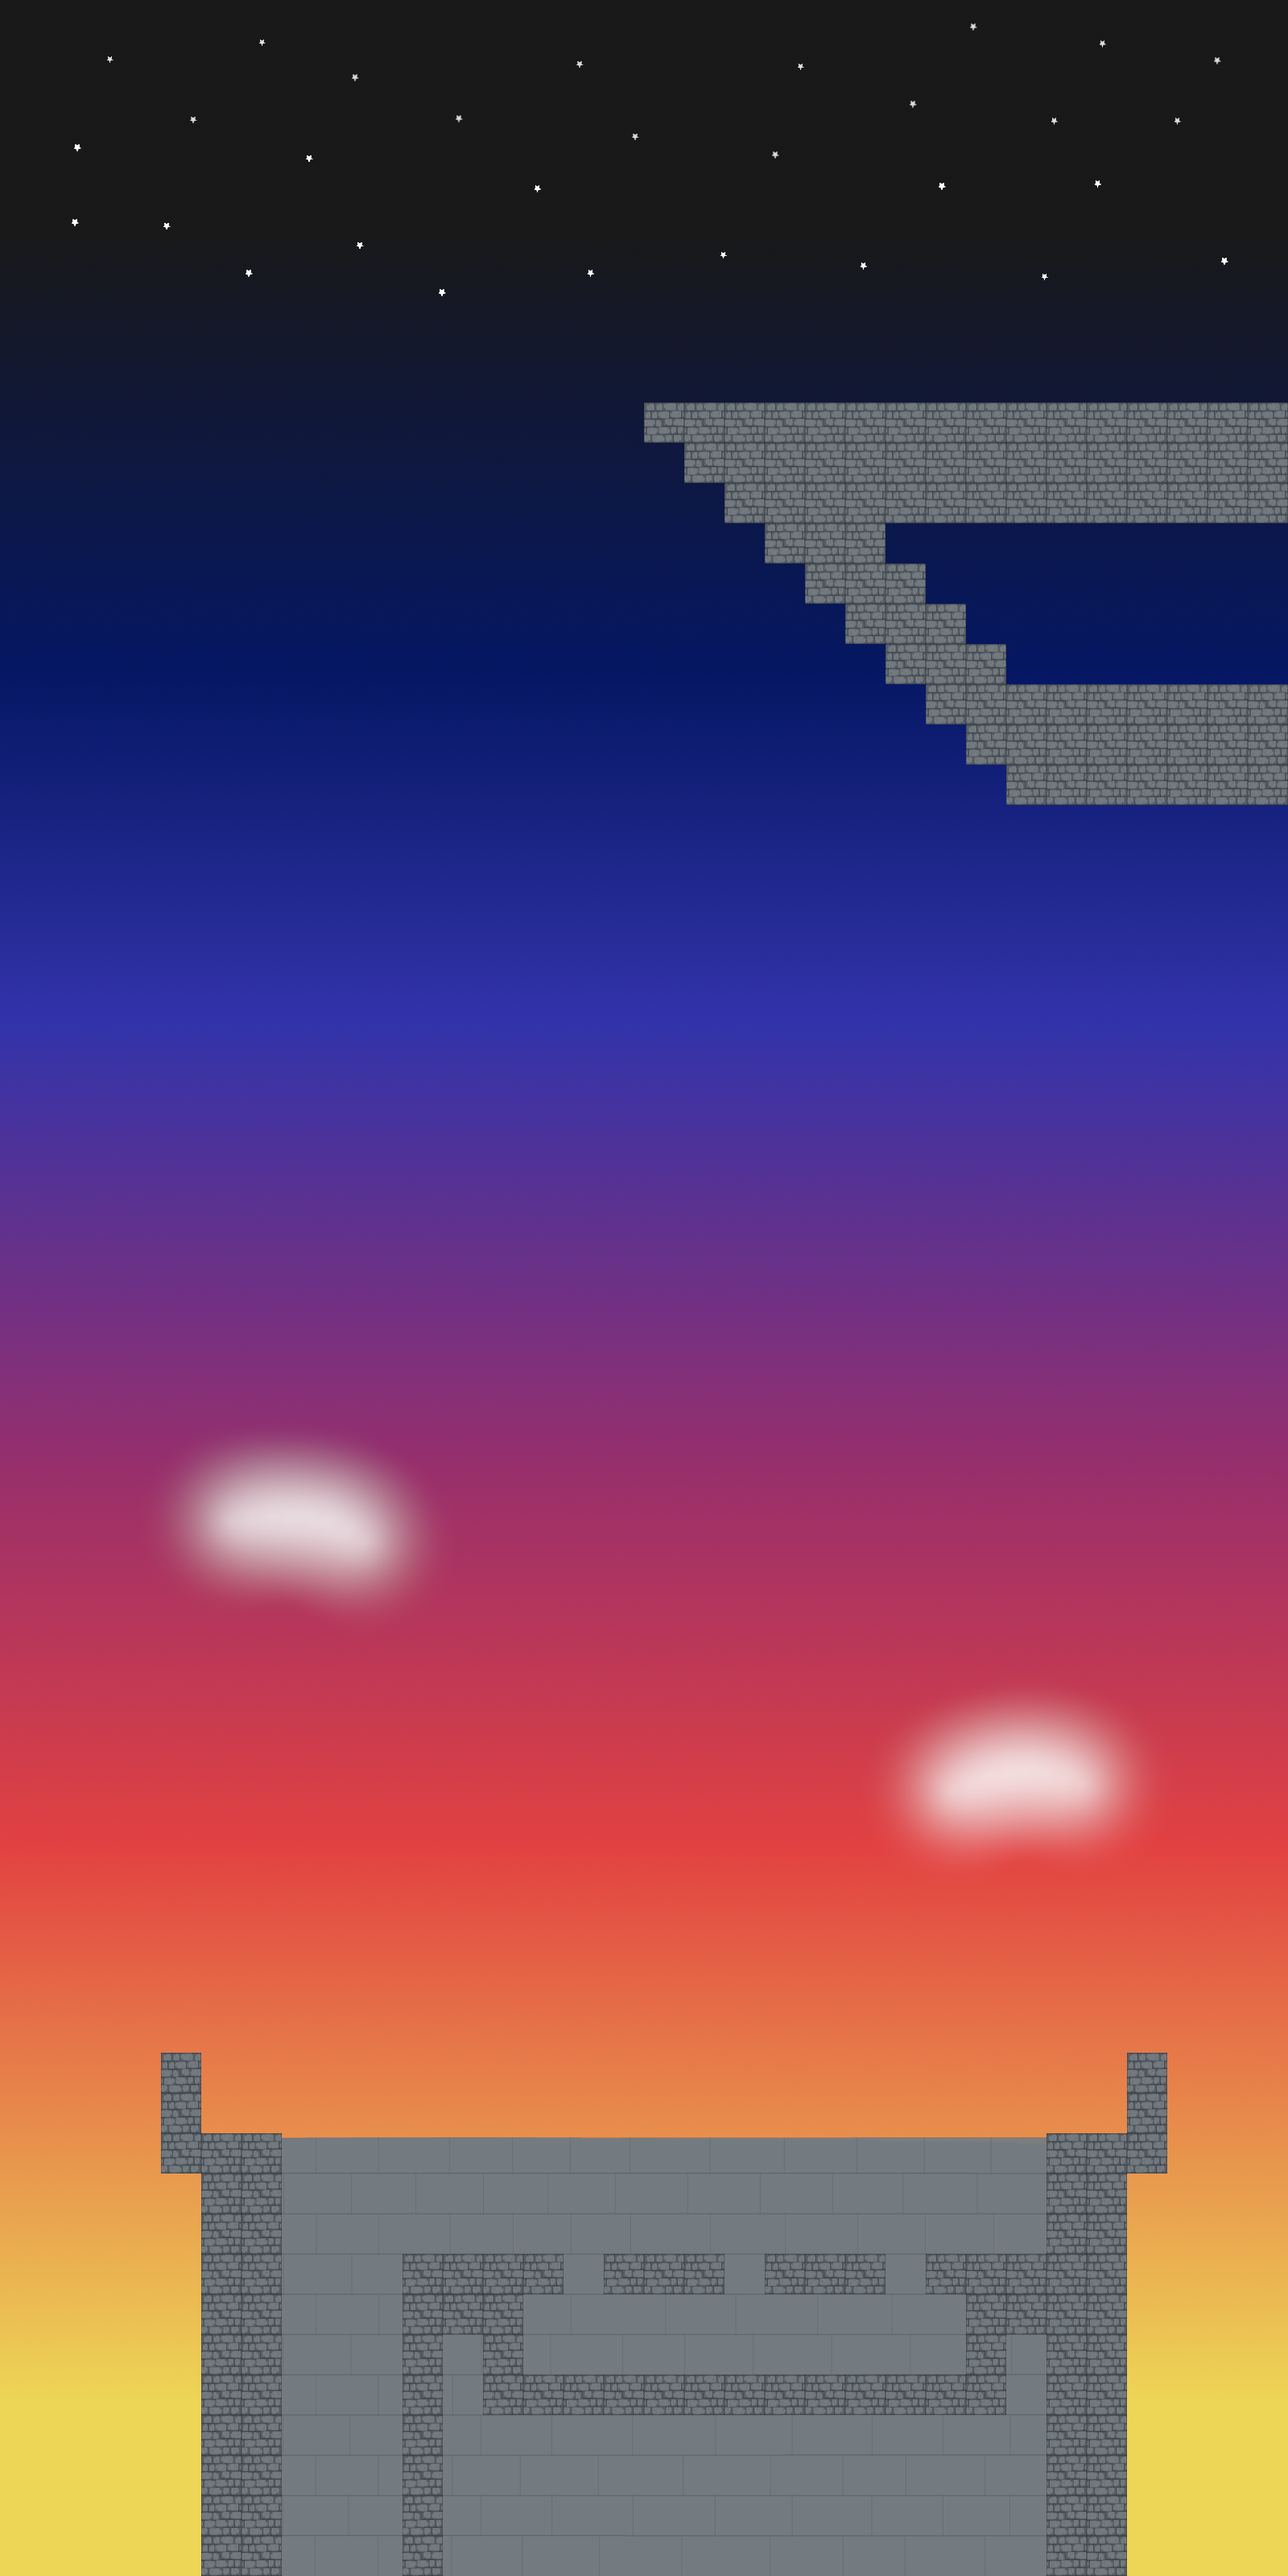
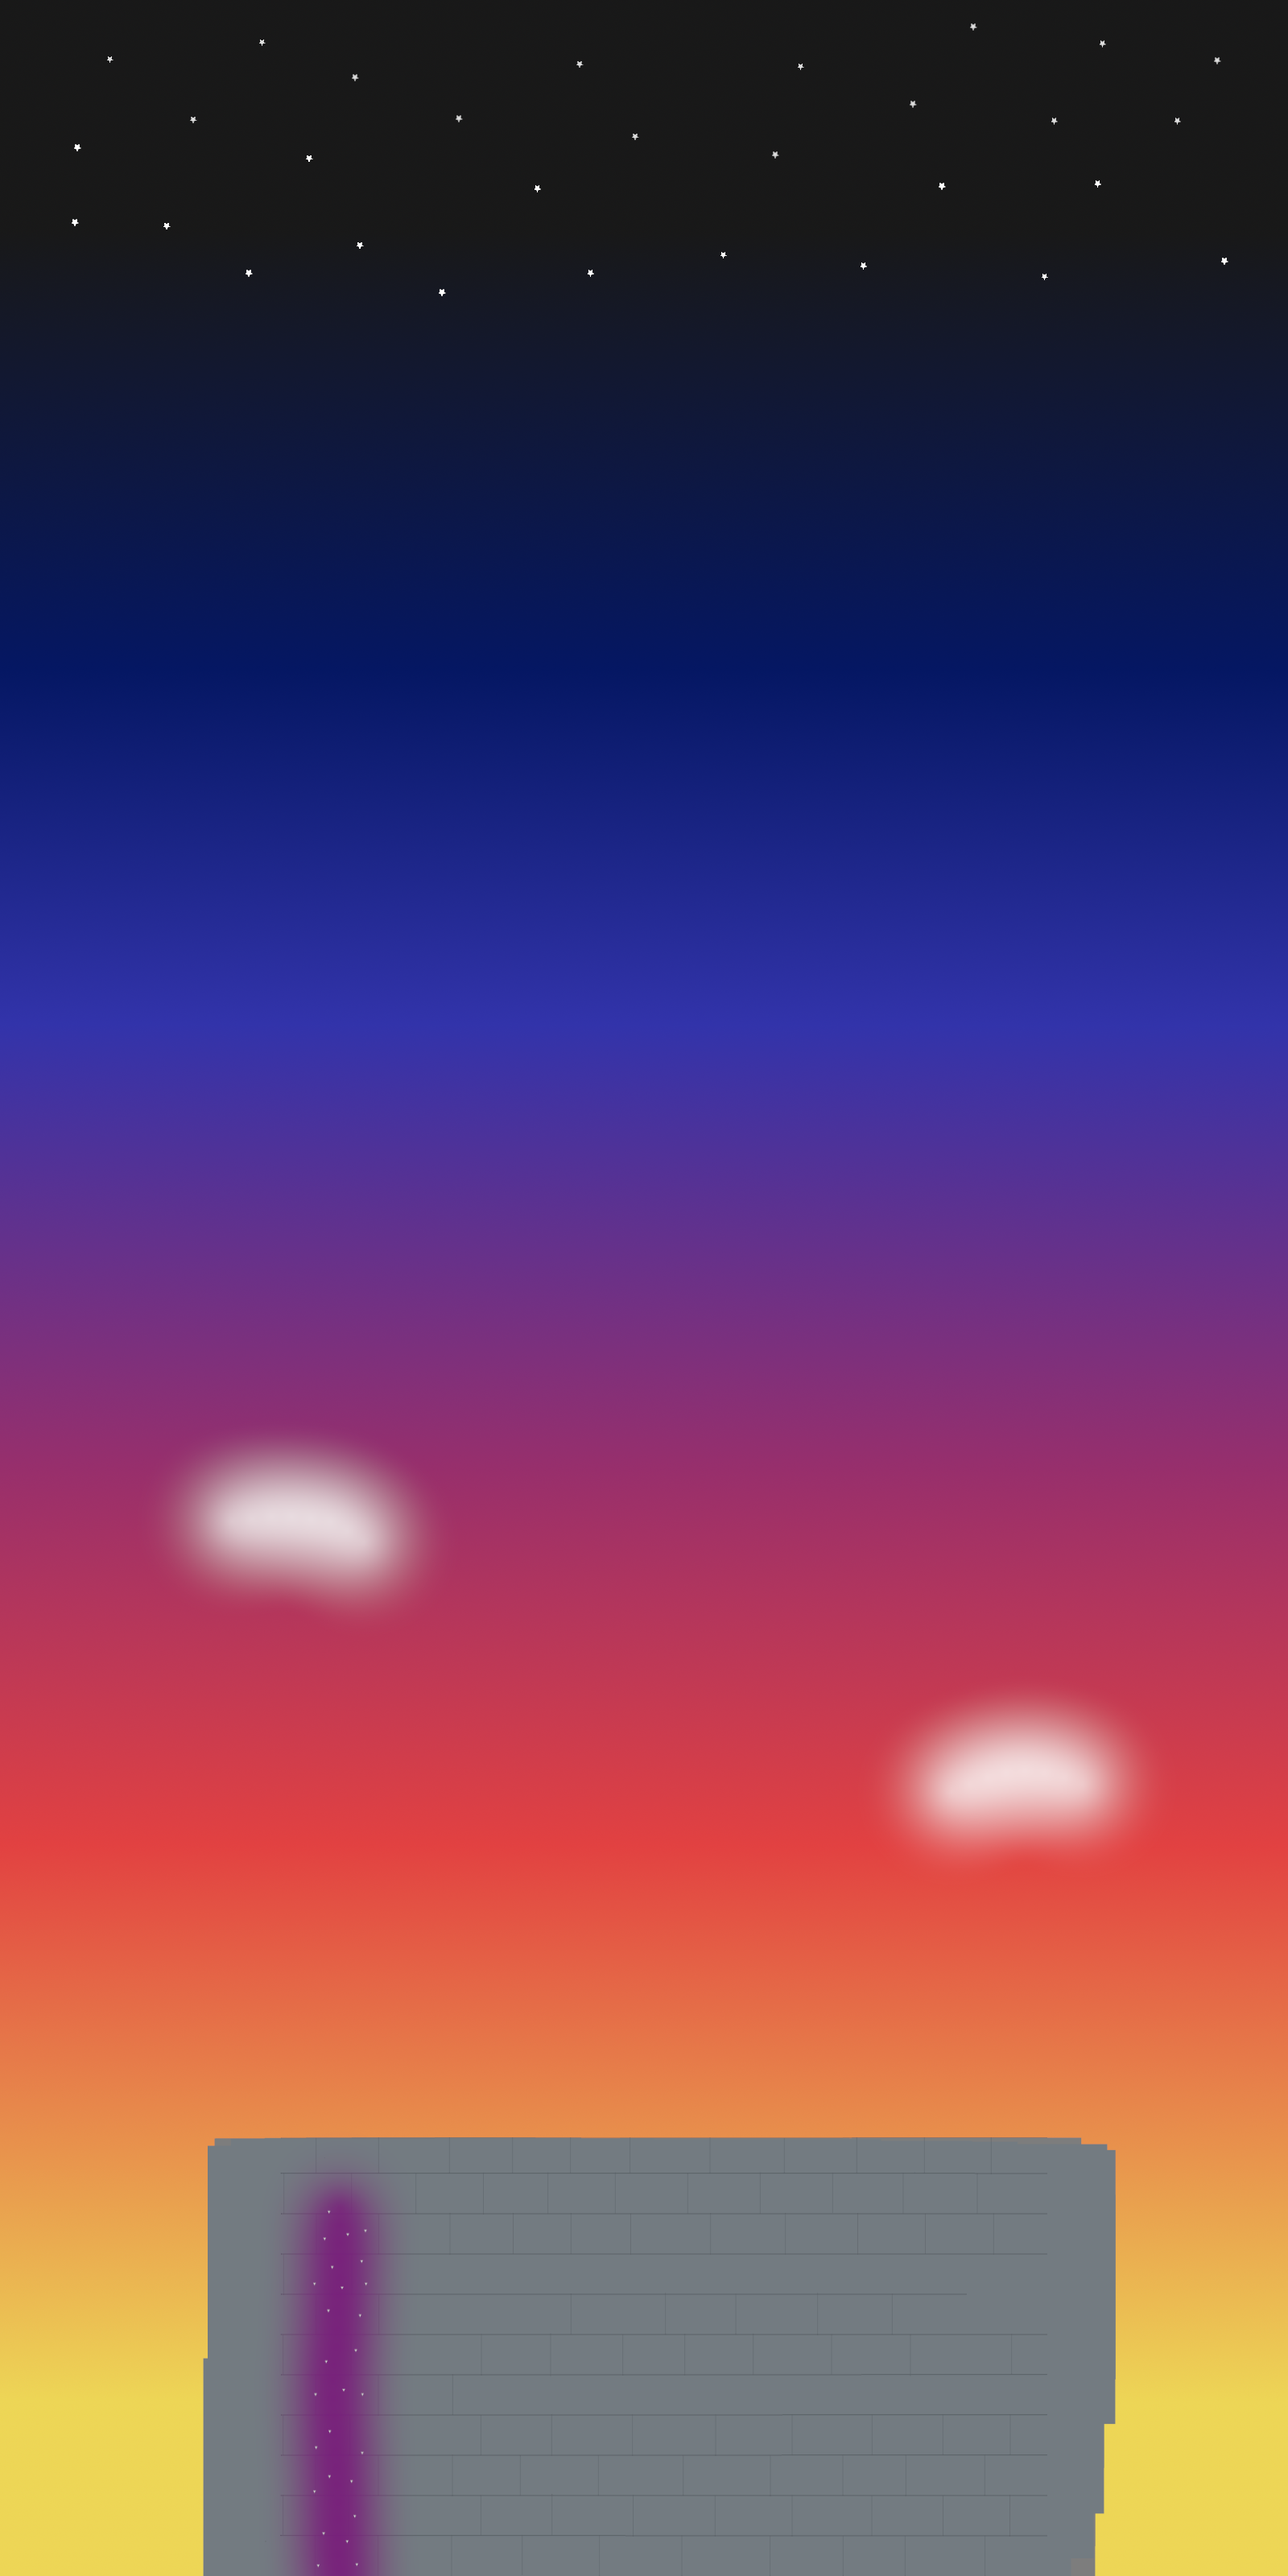
Magic effect

Changed region(s): [[0.125, 0.7812, 0.9062, 1.0], [0.5, 0.1562, 1.0, 0.3125]]

diff --git a/scenes/Level5.js b/scenes/Level5.js
@@ -12,6 +12,8 @@ class Level5 extends Phaser.Scene {
     }
 
     create() {
+        this.add.image(0, 0, 'tower_background').setOrigin(0, 0);
+
         this.camera = this.cameras.main;
         this.map = this.make.tilemap({ key: "tower" });
         
@@ -35,22 +37,58 @@ class Level5 extends Phaser.Scene {
         this.physics.add.collider(this.midgets, this.clouds);
 
         handleCamera(this);
+
+        this.purpleFume = this.add.particles("purple").createEmitter({
+            x: 0,
+            y: 0,
+            speed: { min: 0, max: 50 },
+            angle: { min: 0, max: 360 },
+            scale: { start: 0, end: 1.5 },
+            alpha: { start: 0.5, end: 0 },
+            lifespan: 1000
+        });
+        this.purpleFume.reserve(1000);
+
+        this.whiteStar = this.add.particles("star").createEmitter({
+            x: 0,
+            y: 0,
+            speed: { min: -100, max: 100 },
+            angle: { min: 0, max: 360 },
+            scale: { min: 0.1, max: 0 },
+            alpha: { min: 1, max: 0 },
+            lifespan: 1000
+        });
+        this.whiteStar.reserve(1000);
+
+        this.input.on('pointermove', (pointer) => {
+            this.purpleFume.setPosition(pointer.worldX, pointer.worldY);
+            this.whiteStar.setPosition(pointer.worldX, pointer.worldY);
+        });
     }
 
     update() {
         handleMidgetBehaviour(this);
+        for (let midget of this.midgets.children.entries) {
+            if(!midget.input) {
+                midget.setInteractive();
+                midget.on('pointerover', () => {
+                    midget.body.velocity.y = -300;
+                })
+            }
+        }
     }
 
     spawnClouds() {
         this.clouds = this.physics.add.staticGroup();
-        this.clouds.create(23 * 50, 44 * 50, 'dark_cloud').setInteractive();
-        this.clouds.create(25 * 50, 43 * 50, 'dark_cloud').setInteractive();
-        this.clouds.create(7 * 50, 40 * 50, 'dark_cloud').setInteractive();
-        this.clouds.create(5 * 50, 39 * 50, 'dark_cloud').setInteractive();
-        this.clouds.create(23 * 50, 26 * 50, 'dark_cloud').setInteractive();
-        this.clouds.create(25 * 50, 25 * 50, 'dark_cloud').setInteractive();
-        this.clouds.create(4 * 50, 9 * 50, 'dark_cloud').setInteractive();
-        this.clouds.create(2 * 50, 8 * 50, 'dark_cloud').setInteractive();
+        this.clouds.create(23 * 50, 44 * 50, 'dark_cloud');
+        this.clouds.create(25 * 50, 43 * 50, 'dark_cloud');
+        this.clouds.create(7 * 50, 36 * 50, 'dark_cloud');
+        this.clouds.create(5 * 50, 35 * 50, 'dark_cloud');
+        this.clouds.create(10 * 50, 35 * 50, 'dark_cloud');
+        this.clouds.create(23 * 50, 26 * 50, 'dark_cloud');
+        this.clouds.create(25 * 50, 25 * 50, 'dark_cloud');
+        this.clouds.create(5 * 50, 14 * 50, 'dark_cloud');
+        this.clouds.create(3 * 50, 13 * 50, 'dark_cloud');
         
     }
 

diff --git a/utility/common.js b/utility/common.js
@@ -67,18 +67,9 @@ export const spawnMidgets = (currentScene, x, y, delay) => {
 }
 
 const spawnMidget = (currentScene, x, y) => {
-    if (currentScene.midgets.children.entries.length < allMidgets)
-        currentScene.midgets.create(x, y, 'midget').setScale(0.1);
-
-    for (let midget of currentScene.midgets.children.entries) {
-        if (midget.body.velocity.x === 0) midget.setVelocityX(100);
-
-        if (currentScene.scene.key === "Level5") {
-            midget.setInteractive();
-            midget.on('pointerover', () => {
-                midget.body.velocity.y = -300;
-            })
-        }
+    if (currentScene.midgets.children.entries.length < allMidgets) { 
+        let midget = currentScene.midgets.create(x, y, 'midget').setScale(0.1);
+        midget.setVelocityX(100);
     }
 }
 
